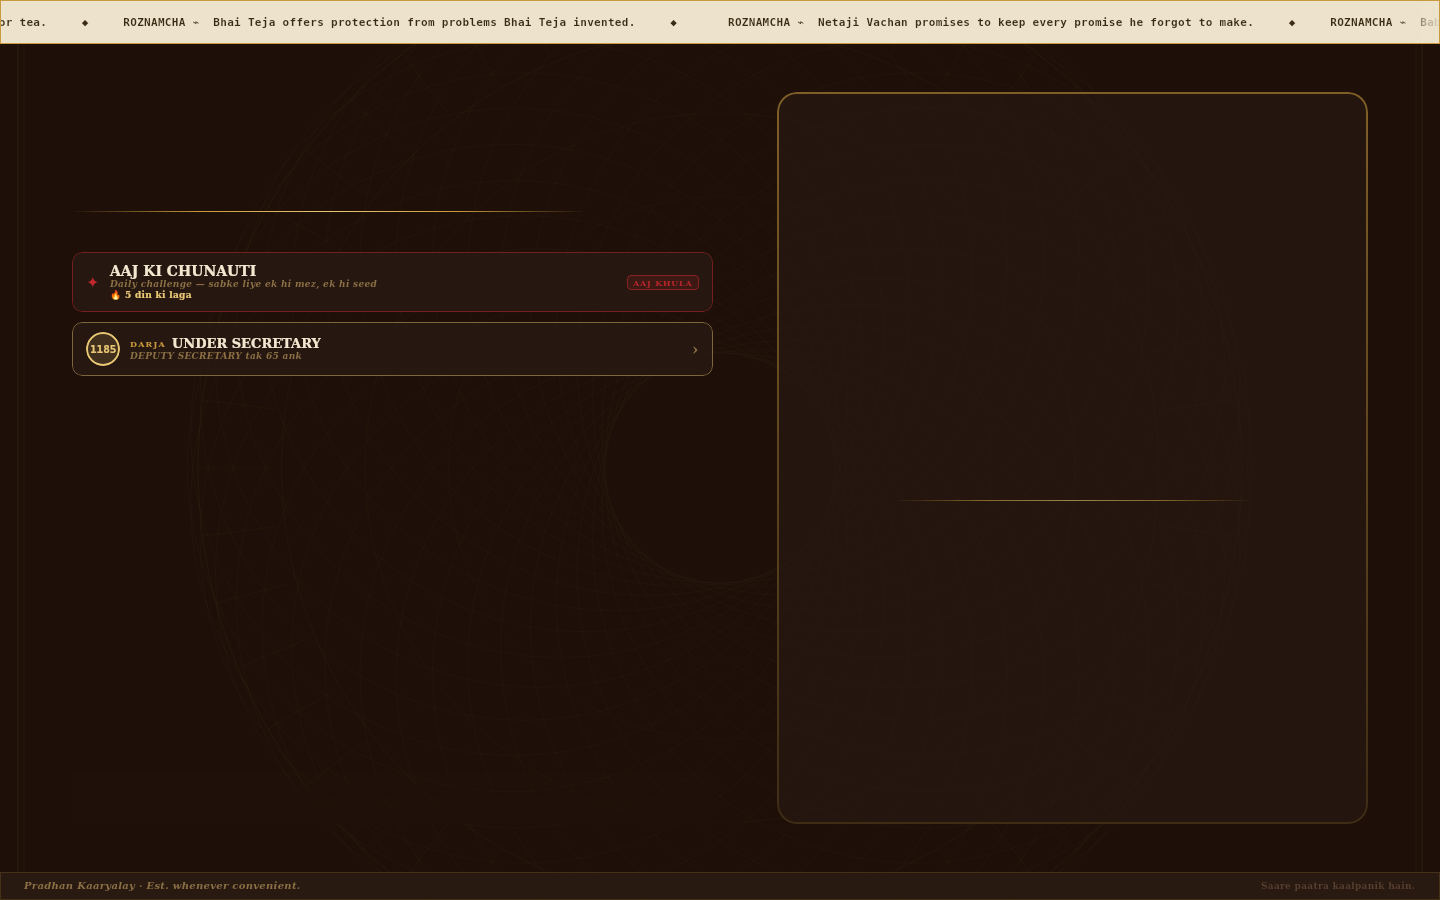
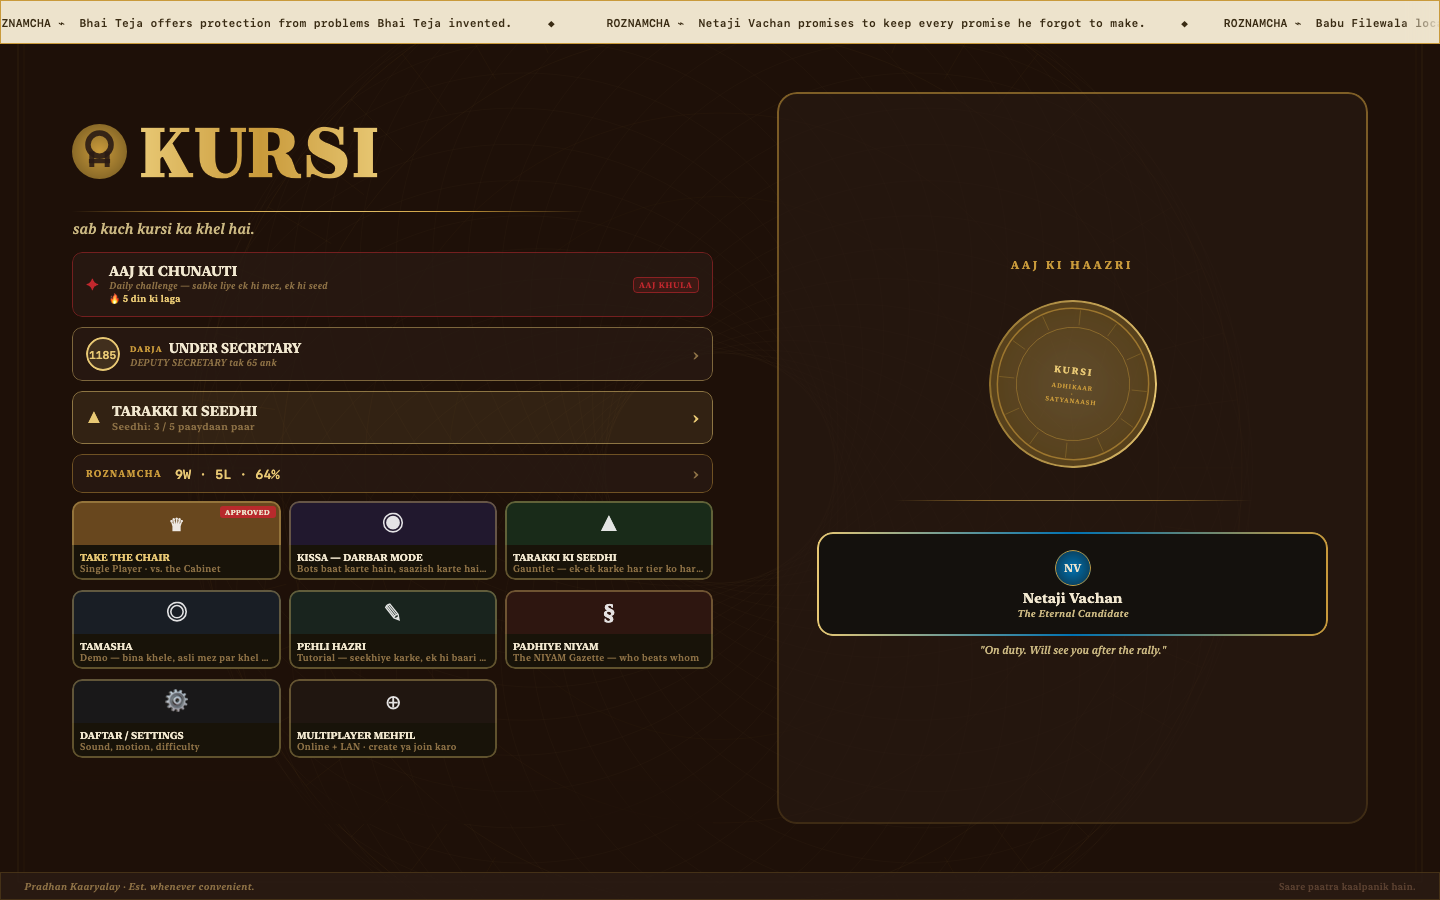
fix(home-shots): render full home screen content with entrance animation pump
The previous harness captured HomeScreen at frame 0, before LaunchedEffect
fired to flip `visible` from false → true. All animateFloatAsState targets
(wordmarkAlpha, sealAlpha, personaAlpha, ctaAlpha) were still 0f, so the
ModeGrid, brass seal, and persona panel all rendered invisible.

Fix: `renderComposableAnimated` pumps 60 frames × 16ms = 960ms to let
LaunchedEffect fire, trigger recomposition, start animations, and settle all
tweens (max: 260ms delay + 420ms duration = 680ms).

Also add `initialSelectedKey` to HomeScreen/ExpandedHomeLayout so the harness
can pre-select a mode tile and capture the right-panel ModePreviewPanel.

New fixtures:
- home.png            — fresh install, all 8 tiles + seal + persona visible
- home_ranked.png     — ranked strip, daily challenge, gauntlet, career stats
- home_resume.png     — in-progress match resume strip + all progression
- home_mode_gauntlet.png — GAUNTLET tile selected, description + ENTER on right
- home_mode_story.png — KISSA tile selected, story mode preview on right

README updated with 5-screenshot home section and full mode tile descriptions.

diff --git a/cmp-desktop/src/jvmMain/kotlin/com/kursi/desktop/Screenshots.kt b/cmp-desktop/src/jvmMain/kotlin/com/kursi/desktop/Screenshots.kt
@@ -59,6 +59,7 @@ import com.kursi.shared.nav.MatchSummary
 import com.kursi.core.prefs.AppPrefs
 import com.kursi.core.prefs.DailyStanding
 import com.kursi.core.prefs.DecisionLedger
+import com.kursi.core.prefs.GauntletProgress
 import com.kursi.core.prefs.PersonaRecord
 import com.kursi.core.prefs.RankedStanding
 import com.kursi.core.prefs.StatsLedger
@@ -146,11 +147,32 @@ fun main() {
     )
     println("  wrote 4p_chit_risk.png")
 
-    // New app-flow screens (callbacks stubbed for static render).
-    renderComposable(outDir, "home") {
-        HomeScreen(onNewGame = {}, onGazette = {}, onSettings = {}, onOnlineTap = {}, launchIndex = 0)
+    // ── Home screen ── entrance animations gated on LaunchedEffect; needs 2-frame pump.
+    // home.png — fresh install, all 8 mode tiles visible, seal + persona on right panel.
+    renderComposableAnimated(outDir, "home") {
+        HomeScreen(onNewGame = {}, onGazette = {}, onSettings = {}, onOnlineTap = {}, launchIndex = 3)
     }
     println("  wrote home.png")
+
+    // home_mode_gauntlet.png — GAUNTLET tile pre-selected; right panel shows description + ENTER.
+    renderComposableAnimated(outDir, "home_mode_gauntlet") {
+        HomeScreen(
+            onNewGame = {}, onGazette = {}, onSettings = {}, onOnlineTap = {}, launchIndex = 1,
+            gauntlet = GauntletProgress(clearedRung = 1, wins = 7),
+            gauntletRungCount = 5,
+            initialSelectedKey = "gauntlet",
+        )
+    }
+    println("  wrote home_mode_gauntlet.png")
+
+    // home_mode_story.png — KISSA tile pre-selected; right panel shows KISSA description.
+    renderComposableAnimated(outDir, "home_mode_story") {
+        HomeScreen(
+            onNewGame = {}, onGazette = {}, onSettings = {}, onOnlineTap = {}, launchIndex = 7,
+            initialSelectedKey = "story",
+        )
+    }
+    println("  wrote home_mode_story.png")
 
     // M6a: the Niyam Gazette — DARBAR (roles) tab now includes the 6th role, PATRAKAAR.
     renderComposable(outDir, "gazette_roles") {
@@ -417,16 +439,46 @@ fun main() {
     }
     println("  wrote online_lobby_lost.png")
 
-    // M6d §1+§2 — Home with the ranked rank strip + the Aaj ki Chunauti daily entry surfaced.
-    renderComposable(outDir, "home_ranked") {
+    // home_ranked.png — ranked strip + daily challenge + career stats + gauntlet progress.
+    renderComposableAnimated(outDir, "home_ranked") {
         HomeScreen(
             onNewGame = {}, onGazette = {}, onSettings = {}, onOnlineTap = {}, launchIndex = 0,
             ranked = sampleRanked(),
             daily = DailyStanding(lastDay = 20_000L, lastWon = true, streak = 5, bestStreak = 9, played = 22, won = 14),
             todayDailyDone = false,
+            ledger = StatsLedger(
+                games = 14, wins = 9, bluffsHeld = 21, bluffsCaught = 6,
+                headToHead = mapOf(
+                    "netaji_vachan" to PersonaRecord(8, 5),
+                    "bhai_teja" to PersonaRecord(4, 2),
+                )
+            ),
+            gauntlet = GauntletProgress(clearedRung = 2, wins = 9),
+            gauntletRungCount = 5,
         )
     }
     println("  wrote home_ranked.png")
+
+    // home_resume.png — shows in-progress match resume strip + all progression data.
+    renderComposableAnimated(outDir, "home_resume") {
+        HomeScreen(
+            onNewGame = {}, onGazette = {}, onSettings = {}, onOnlineTap = {}, launchIndex = 5,
+            resumeLabel = "6-Player Hard · Rung 3 · Turn 14",
+            ranked = sampleRanked(),
+            daily = DailyStanding(lastDay = 20_001L, lastWon = false, streak = 3, bestStreak = 9, played = 22, won = 14),
+            todayDailyDone = false,
+            ledger = StatsLedger(
+                games = 14, wins = 9, bluffsHeld = 21, bluffsCaught = 6,
+                headToHead = mapOf(
+                    "netaji_vachan" to PersonaRecord(8, 5),
+                    "jugaadu_chhotu" to PersonaRecord(5, 3),
+                )
+            ),
+            gauntlet = GauntletProgress(clearedRung = 1, wins = 5),
+            gauntletRungCount = 5,
+        )
+    }
+    println("  wrote home_resume.png")
 
     // ── M5 pass-and-play handoff guard ──
     // A 2-human pass-and-play state where control rests on human seat 1 ("Khiladi 2"); the harness
@@ -707,6 +759,40 @@ private fun renderComposable(dir: File, name: String, content: @Composable () ->
         KursiTheme { content() }
     }
     val data = scene.render().encodeToData() ?: error("encode null for $name")
+    File(dir, "$name.png").writeBytes(data.bytes)
+    scene.close()
+}
+
+/**
+ * Two-frame render for screens that gate content behind entrance animations driven by
+ * [LaunchedEffect]. Frame 0 at t=0 triggers the effect (sets visible=true); frame 1 at
+ * t=800ms lets all [animateFloatAsState] tweens (max 420ms + 260ms delay = 680ms) settle
+ * to their final values before the image is captured.
+ */
+/**
+ * Multi-frame render for screens with LaunchedEffect-gated entrance animations.
+ *
+ * Why looping is necessary:
+ *   Frame 0 → initial composition, visible=false, LaunchedEffect REGISTERED
+ *   Frame 1 → LaunchedEffect body runs (visible=true), recomposition triggered
+ *   Frame 2 → recomposition with visible=true; animations START (alpha begins at 0f)
+ *   Frames 3-60 → animation clock advances; max tween is 260ms delay + 420ms = 680ms
+ *   Frame 60 (60×16ms = 960ms from start) → all tweens settled at 1f
+ *
+ * A two-frame call (render at t=0 then t=800ms) fails because the animation STARTS on
+ * frame 2, not completes: the animation clock is 800ms when the target first becomes 1f,
+ * so it still reads 0f progress at that capture time.
+ */
+private fun renderComposableAnimated(dir: File, name: String, content: @Composable () -> Unit) {
+    val scene = ImageComposeScene(width = 1440, height = 900, density = Density(1f)) {
+        KursiTheme { content() }
+    }
+    val frameNs = 16_000_000L   // 16 ms per frame
+    for (frame in 0L..60L) {
+        scene.render(nanoTime = frame * frameNs)
+    }
+    val data = scene.render(nanoTime = 61L * frameNs)
+        .encodeToData() ?: error("encode null for $name")
     File(dir, "$name.png").writeBytes(data.bytes)
     scene.close()
 }

diff --git a/cmp-shared/src/commonMain/kotlin/com/kursi/shared/screen/HomeScreen.kt b/cmp-shared/src/commonMain/kotlin/com/kursi/shared/screen/HomeScreen.kt
@@ -115,6 +115,8 @@ fun HomeScreen(
     gauntletRungCount: Int = 0,
     onGauntlet: () -> Unit = {},
     onSpectate: () -> Unit = {},
+    // Render harness: pre-select a mode tile so the right-panel preview is visible on frame 1.
+    initialSelectedKey: String? = null,
 ) {
     val persona = remember(launchIndex) {
         PersonaRoster.ALL[launchIndex % PersonaRoster.ALL.size]
@@ -260,6 +262,7 @@ fun HomeScreen(
                     gauntletRungCount = gauntletRungCount,
                     onGauntlet = onGauntlet,
                     onSpectate = onSpectate,
+                    initialSelectedKey = initialSelectedKey,
                 )
             } else {
                 CompactHomeLayout(
@@ -335,9 +338,10 @@ private fun ColumnScope.ExpandedHomeLayout(
     gauntletRungCount: Int,
     onGauntlet: () -> Unit,
     onSpectate: () -> Unit,
+    initialSelectedKey: String? = null,
 ) {
     val s = LocalKursiStrings.current
-    var selectedKey by remember { mutableStateOf<String?>(null) }
+    var selectedKey by remember(initialSelectedKey) { mutableStateOf(initialSelectedKey) }
     val modes = remember(s) {
         listOf(
             HomeModeData(

diff --git a/README.md b/README.md
@@ -39,11 +39,21 @@ The chair at the head is empty.
 
 ## Home
 
-| Home | Home with rank strip + daily challenge |
+| Fresh install | In a career — ranked + daily + gauntlet strips |
 |:-:|:-:|
 | ![](docs/screenshots/home.png) | ![](docs/screenshots/home_ranked.png) |
 
-From home you can start a new game, enter GAUNTLET mode, browse the Niyam Gazette (full rule reference), access online play, or review your career stats and rankings. Once you've played enough games, a local ELO rating appears — with a daily challenge (Aaj ki Chunauti) and your current winning streak.
+| Mid-game resume strip + all progression | GAUNTLET tile selected — right panel shows mode preview |
+|:-:|:-:|
+| ![](docs/screenshots/home_resume.png) | ![](docs/screenshots/home_mode_gauntlet.png) |
+
+| KISSA (story mode) tile selected |
+|:-:|
+| ![](docs/screenshots/home_mode_story.png) |
+
+The home screen has eight mode tiles across two columns — **New Game**, **KISSA** (story campaign), **GAUNTLET** (rung ladder), **TAMASHA** (spectate AI), **Tutorial**, **Rules / Gazette**, **Settings**, and **Multiplayer** (online, flagged PENDING SANCTION until server key is present). Selecting any tile opens a mode preview in the right panel with a full description, key details, and an ENTER button.
+
+Above the grid, continuity strips surface everything in progress: the **Aaj ki Chunauti** daily challenge with your current streak, your **ELO rank** (SECTION OFFICER → UNDER SECRETARY → DEWAN and above), **TARAKKI KI SEEDHI** gauntlet progress, career win-rate, and a one-tap **resume strip** when a match is in flight. A rotating ROZNAMCHA ticker scrolls satirical headlines across the top. The brass seal and your current on-duty bot persona appear in the right panel by default.
 
 ---
 